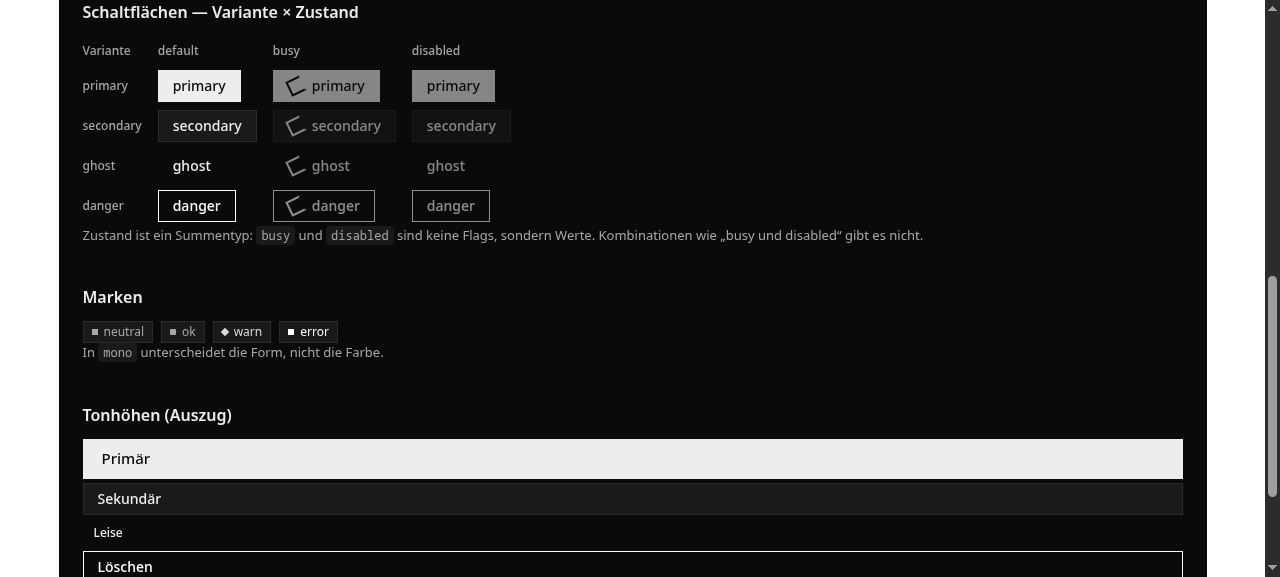
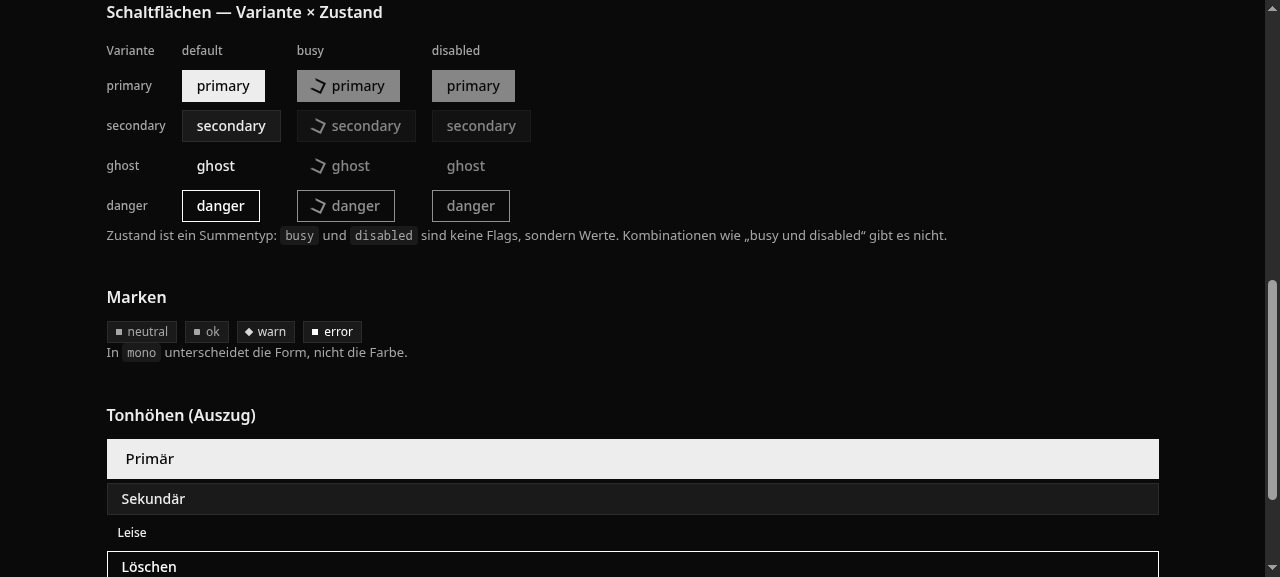
Styleguide: Body-Fläche, breitere Swatch-Spalten, Screenshots in der README

diff --git a/README.md b/README.md
@@ -13,6 +13,16 @@ ein Living Styleguide. Vue 3 + TypeScript, ausgeliefert über Tauri.
 
 Verbindlich: [PLAN.md](PLAN.md) und [AGENTS.md](AGENTS.md).
 
+## Der Styleguide
+
+![Styleguide im Dark-Modus](docs/screenshots/styleguide-dark.png)
+
+![Schaltflächen in allen Varianten und Zuständen](docs/screenshots/styleguide-components-light.png)
+
+Derselbe Katalog in `mono` — Statusfarben werden über die Form unterschieden:
+
+![Mono-Modus](docs/screenshots/styleguide-components-mono.png)
+
 ## Loslegen
 
 ```bash
